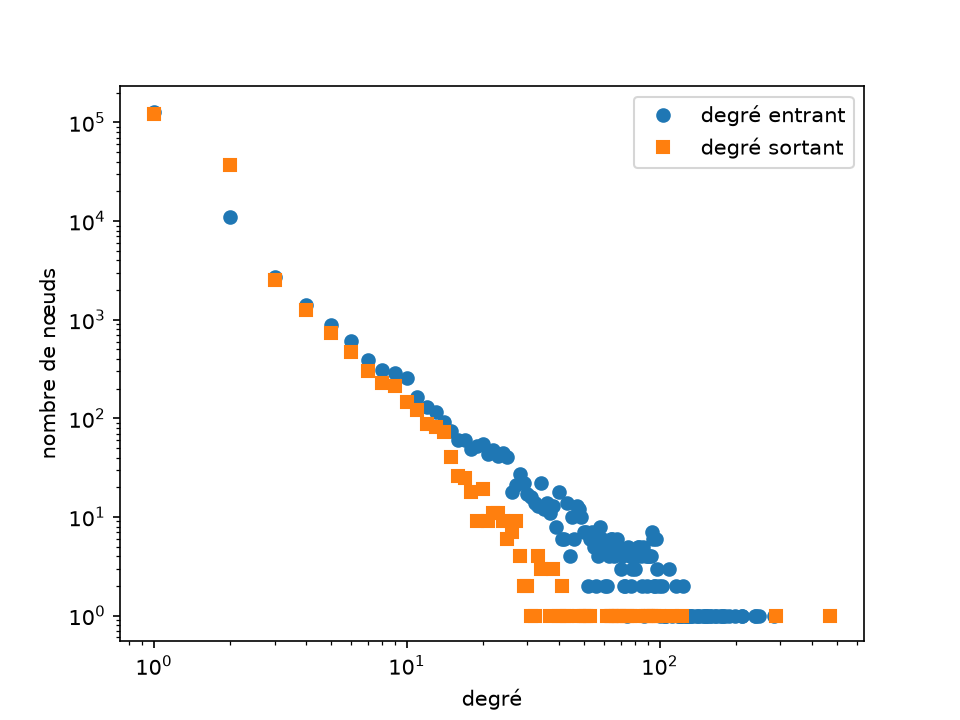
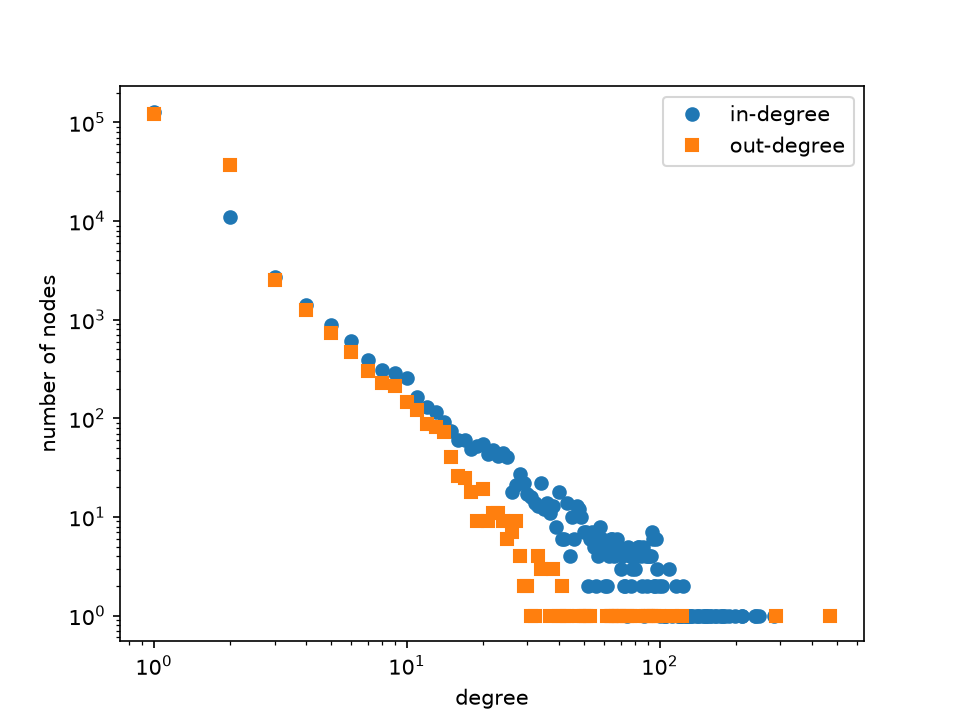
Ajouts des figures et metrics

Changed region(s): [[0.6562, 0.1222, 0.875, 0.2444], [0.0312, 0.3667, 0.0625, 0.6417], [0.4688, 0.9472, 0.5625, 1.0]]

diff --git a/src/elliptic_graph/structure/task.py b/src/elliptic_graph/structure/task.py
@@ -26,15 +26,15 @@ def run(ctx: Context) -> None:
 
     fig, ax = plt.subplots()
     d = degrees.filter(pl.col("degree") > 0)
-    ax.loglog(d["degree"], d["n_in"], "o", label="degré entrant")
-    ax.loglog(d["degree"], d["n_out"], "s", label="degré sortant")
-    ax.set(xlabel="degré", ylabel="nombre de nœuds")
+    ax.loglog(d["degree"], d["n_in"], "o", label="in-degree")
+    ax.loglog(d["degree"], d["n_out"], "s", label="out-degree")
+    ax.set(xlabel="degree", ylabel="number of nodes")
     ax.legend()
     fig.savefig(ctx.dir("figures") / "degrees.png", dpi=150)
 
     fig, ax = plt.subplots()
-    ax.plot(distances["step"], distances["diameter"], label="diamètre")
-    ax.plot(distances["step"], distances["radius"], label="rayon")
-    ax.set(xlabel="pas de temps", ylabel="distance (graphe non orienté)")
+    ax.plot(distances["step"], distances["diameter"], label="diameter")
+    ax.plot(distances["step"], distances["radius"], label="radius")
+    ax.set(xlabel="time step", ylabel="distance (undirected graph)")
     ax.legend()
     fig.savefig(ctx.dir("figures") / "diameter_by_step.png", dpi=150)

diff --git a/src/elliptic_graph/detection/task.py b/src/elliptic_graph/detection/task.py
@@ -40,6 +40,6 @@ def run(ctx: Context) -> None:
     for name, d in per_step.group_by("feature_set", maintain_order=True):
         d = d.sort("step")
         ax.plot(d["step"], d["f1"], marker="o", label=name[0])
-    ax.set(xlabel="pas de temps (test)", ylabel="F1 classe illicite")
+    ax.set(xlabel="time step (test)", ylabel="F1 (illicit class)")
     ax.legend()
     fig.savefig(ctx.dir("figures") / "f1_by_step.png", dpi=150)

diff --git a/src/elliptic_graph/communities/task.py b/src/elliptic_graph/communities/task.py
@@ -60,6 +60,6 @@ def draw_illicit_subgraph(g: nx.DiGraph, ctx: Context) -> None:
         width=0.4,
         ax=ax,
     )
-    ax.set_title(f"Pas {step} : transactions illicites (rouge) et leurs voisins")
+    ax.set_title(f"Step {step}: illicit transactions (red), licit (green), unknown (gray)")
     ax.axis("off")
     fig.savefig(ctx.dir("figures") / "illicit_subgraph.png", dpi=150)
